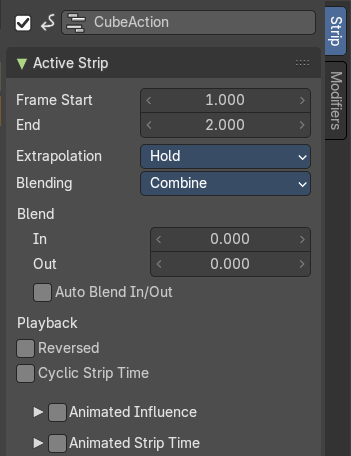
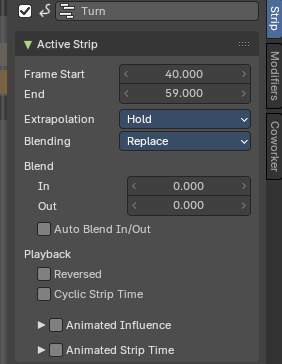
NLA Active Strip panel picture, Playback settings as headings

diff --git a/docs2/content/editors/nonlinear-animation-editor/sidebar/index.md b/docs2/content/editors/nonlinear-animation-editor/sidebar/index.md
@@ -6,7 +6,7 @@ path:
   - Editors
   - Nonlinear Animation Editor
   - Sidebar
-version: "5.1"
+version: "5.3"
 status: draft
 screenshots: "5.1"
 replaces:
@@ -216,7 +216,15 @@ Number of frames for blending in and out is automatically calculated from overla
 
 ##### Playback
 
-**Reversed**: The action strip is played in reversed order. This just works when timing is determined automatic. · **Cyclic Strip Time**: Cycle the action strip.
+How the strip plays. The two settings sit indented below the Playback label.
+
+###### Reversed
+
+Plays the strip backwards. This only works when the strip timing is set automatically, so not while Animated Strip Time is on.
+
+###### Cyclic Strip Time
+
+Loops the animated strip time between the start and the end of the action. Use it with Animated Strip Time to make the action repeat.
 
 ### Animated Influence subpanel
 
